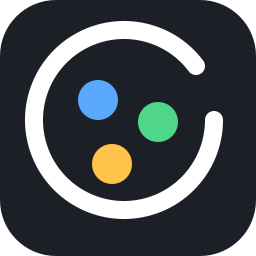
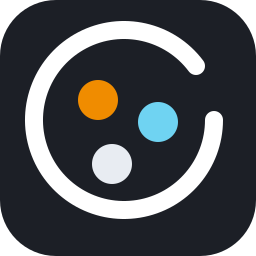
feat(render): エージェント種別のグリフとキー送信のプリセット別アイコンを追加
状態色を idle=黒 / working=オレンジ / done=水色 に変更した。指定の無かった
blocked は working のオレンジと紛れないよう赤、unknown は暗灰のままとした。

エージェントキーは種別名の字面をやめてグリフを描く。herdr が検出する種別は
19 種類あり全部に絵を用意しても見分けがつかないので、claude / codex /
gemini / cursor だけ形で表し、残りは頭 2 文字の字面にした。claude と cline の
ように頭 1 文字では被るため 2 文字にしている。

キー送信は承認 / 拒否 / はい / いいえ / 自由入力でアイコンを差し替える。
どのキーが何を送るのか、押す前に分かるようにするため。

Claude-Session: https://claude.ai/code/session_01EzXAshLPNT9u9e3xSfiBLn

Changed region(s): [[0.5312, 0.375, 0.7188, 0.5625], [0.3438, 0.5625, 0.5312, 0.7188], [0.2812, 0.3125, 0.4688, 0.4688]]

diff --git a/src/render/key-image.ts b/src/render/key-image.ts
@@ -1,7 +1,7 @@
 /**
  * エージェントキーの画像を組み立てる純関数。
  *
- * 状態を色で示し、中央にエージェント種別、右上にスロット番号を描く
+ * 状態を色で示し、中央にエージェント種別のグリフ、右上にスロット番号を描く
  * （spec/herdr-control.md 5.4）。キーのタイトル（ワークスペース名）は
  * Stream Deck 側が下端に重ねるため、下 1/4 は空けておく。
  */
@@ -10,13 +10,13 @@ import {
   EMPTY_SLOT_COLOR,
   EMPTY_SLOT_FOREGROUND_COLOR,
   KEY_IMAGE_SIZE,
-  KEY_LABEL_MAX_LENGTH,
   OFFLINE_COLOR,
   OFFLINE_FOREGROUND_COLOR,
   STATUS_COLORS,
   STATUS_FOREGROUND_COLORS,
 } from "../constants.js";
 import type { AgentStatus } from "../herdr/types.js";
+import { agentGlyph, GLYPH_BOX } from "./agent-glyph.js";
 
 export type AgentKeyView =
   /** herdr に接続できていない。 */
@@ -25,6 +25,10 @@ export type AgentKeyView =
   | { kind: "empty"; slot?: number }
   /** エージェントがいる。 */
   | { kind: "agent"; status: AgentStatus; agent: string | null; slot?: number };
+
+/** グリフを描く領域の一辺（px）。タイトルに重ならないよう上寄せに置く。 */
+const GLYPH_SIZE = 62;
+const GLYPH_CENTER_Y = 58;
 
 /** キー画像を `data:` URI として返す。Stream Deck の `setImage()` にそのまま渡せる。 */
 export function renderAgentKey(view: AgentKeyView): string {
@@ -39,13 +43,13 @@ function buildSvg(view: AgentKeyView): string {
   ];
 
   if (view.kind === "offline") {
-    parts.push(centerText("×", OFFLINE_FOREGROUND_COLOR, 56));
+    parts.push(symbol("×", OFFLINE_FOREGROUND_COLOR, 56));
   } else if (view.kind === "empty") {
-    parts.push(centerText("—", EMPTY_SLOT_FOREGROUND_COLOR, 40));
+    parts.push(symbol("—", EMPTY_SLOT_FOREGROUND_COLOR, 40));
     parts.push(slotBadge(view.slot, EMPTY_SLOT_FOREGROUND_COLOR));
   } else {
     const foreground = STATUS_FOREGROUND_COLORS[view.status];
-    parts.push(centerText(agentLabel(view.agent), foreground, 24));
+    parts.push(glyph(view.agent, foreground));
     parts.push(slotBadge(view.slot, foreground));
   }
 
@@ -72,9 +76,17 @@ function background(view: AgentKeyView): string {
   return `${rect}<rect x="6" y="6" width="${size - 12}" height="${size - 12}" rx="14" fill="none" stroke="${stroke}" stroke-width="3" stroke-dasharray="10 8"/>`;
 }
 
-/** 中央よりやや上に描く。下端は Stream Deck のタイトルに譲る。 */
-function centerText(text: string, fill: string, fontSize: number): string {
-  return `<text x="${KEY_IMAGE_SIZE / 2}" y="58" text-anchor="middle" dominant-baseline="middle" font-family="Helvetica, Arial, sans-serif" font-size="${fontSize}" font-weight="600" fill="${fill}">${escapeXml(text)}</text>`;
+/** エージェント種別のグリフを、下端のタイトルに重ならない位置へ拡大して置く。 */
+function glyph(agent: string | null, color: string): string {
+  const scale = GLYPH_SIZE / GLYPH_BOX;
+  const offsetX = KEY_IMAGE_SIZE / 2 - GLYPH_SIZE / 2;
+  const offsetY = GLYPH_CENTER_Y - GLYPH_SIZE / 2;
+  return `<g transform="translate(${offsetX} ${offsetY}) scale(${scale})">${agentGlyph(agent, color)}</g>`;
+}
+
+/** 空スロット・オフラインを示す記号。 */
+function symbol(text: string, fill: string, fontSize: number): string {
+  return `<text x="${KEY_IMAGE_SIZE / 2}" y="${GLYPH_CENTER_Y}" text-anchor="middle" dominant-baseline="middle" font-family="Helvetica, Arial, sans-serif" font-size="${fontSize}" font-weight="600" fill="${fill}">${text}</text>`;
 }
 
 /** 右上のスロット番号。`index` 指定でないキーには出さない。 */
@@ -82,28 +94,7 @@ function slotBadge(slot: number | undefined, fill: string): string {
   if (slot === undefined) {
     return "";
   }
-  return `<text x="${KEY_IMAGE_SIZE - 14}" y="26" text-anchor="end" font-family="Helvetica, Arial, sans-serif" font-size="20" font-weight="600" fill="${fill}" fill-opacity="0.65">${escapeXml(String(slot))}</text>`;
-}
-
-/** エージェント種別を大文字で描く。未検出なら疑問符。 */
-function agentLabel(agent: string | null): string {
-  if (agent === null || agent === "") {
-    return "?";
-  }
-  return truncate(agent.toUpperCase(), KEY_LABEL_MAX_LENGTH);
-}
-
-function truncate(text: string, maxLength: number): string {
-  return [...text].length <= maxLength ? text : `${[...text].slice(0, maxLength - 1).join("")}…`;
-}
-
-function escapeXml(text: string): string {
-  return text
-    .replaceAll("&", "&amp;")
-    .replaceAll("<", "&lt;")
-    .replaceAll(">", "&gt;")
-    .replaceAll('"', "&quot;")
-    .replaceAll("'", "&apos;");
+  return `<text x="${KEY_IMAGE_SIZE - 14}" y="26" text-anchor="end" font-family="Helvetica, Arial, sans-serif" font-size="20" font-weight="600" fill="${fill}" fill-opacity="0.65">${slot}</text>`;
 }
 
 function toDataUri(svg: string): string {

diff --git a/src/render/agent-glyph.ts b/src/render/agent-glyph.ts
@@ -1,0 +1,95 @@
+/**
+ * エージェント種別ごとのグリフ。
+ *
+ * すべて 24×24 の座標系で描き、呼び出し側が拡大してキー画像に埋め込む。
+ * herdr が検出するエージェントは 19 種類あり全部に絵を用意しても見分けが
+ * つかないので、よく使うものだけ形で表し、残りは頭 2 文字の字面で示す。
+ */
+
+/** グリフを描く座標系の一辺。 */
+export const GLYPH_BOX = 24;
+
+const CENTER = GLYPH_BOX / 2;
+
+/** claude: Claude Code が端末に出す ✳ に合わせた 8 方向の光条。 */
+function claudeGlyph(color: string): string {
+  const spokes = [0, 45, 90, 135, 180, 225, 270, 315]
+    .map((degrees) => {
+      const radians = (degrees * Math.PI) / 180;
+      const [dx, dy] = [Math.cos(radians), Math.sin(radians)];
+      const inner = point(dx, dy, 3.2);
+      const outer = point(dx, dy, 10.4);
+      return `M${inner} L${outer}`;
+    })
+    .join(" ");
+  return `<path d="${spokes}" fill="none" stroke="${color}" stroke-width="2.4" stroke-linecap="round"/>`;
+}
+
+/** codex: 中心と 6 方向の粒からなる花形。 */
+function codexGlyph(color: string): string {
+  const petals = [0, 60, 120, 180, 240, 300]
+    .map((degrees) => {
+      const radians = (degrees * Math.PI) / 180;
+      const [cx, cy] = coordinates(Math.cos(radians), Math.sin(radians), 6.9);
+      return `<circle cx="${cx}" cy="${cy}" r="2.7" fill="${color}"/>`;
+    })
+    .join("");
+  return `${petals}<circle cx="${CENTER}" cy="${CENTER}" r="2.9" fill="${color}"/>`;
+}
+
+/** gemini: 4 方向に尖った星。 */
+function geminiGlyph(color: string): string {
+  return `<path d="M12 1.6c1.1 5.6 3.7 8.2 9.3 9.3-5.6 1.1-8.2 3.7-9.3 9.3-1.1-5.6-3.7-8.2-9.3-9.3 5.6-1.1 8.2-3.7 9.3-9.3Z" fill="${color}"/>`;
+}
+
+/** cursor: 矢印カーソル。 */
+function cursorGlyph(color: string): string {
+  return `<path d="M4.74 1.22 19.92 12.66l-6.71.66 3.52 7.26-2.97 1.43-3.52-7.37-4.84 3.96Z" fill="${color}"/>`;
+}
+
+const GLYPHS: Record<string, (color: string) => string> = {
+  claude: claudeGlyph,
+  codex: codexGlyph,
+  gemini: geminiGlyph,
+  cursor: cursorGlyph,
+};
+
+/**
+ * エージェント種別のグリフを返す。形を用意していない種別は頭 2 文字を大文字で描く
+ * （`cline` と `claude` のように頭 1 文字では被るため 2 文字にする）。
+ * 種別が検出できていない場合は疑問符。
+ */
+export function agentGlyph(agent: string | null, color: string): string {
+  const key = (agent ?? "").toLowerCase();
+  const glyph = GLYPHS[key];
+  if (glyph !== undefined) {
+    return glyph(color);
+  }
+  return lettermark(agent === null || agent === "" ? "?" : agent.slice(0, 2), color);
+}
+
+function lettermark(text: string, color: string): string {
+  return `<text x="${CENTER}" y="${CENTER}" text-anchor="middle" dominant-baseline="central" font-family="Helvetica, Arial, sans-serif" font-size="13" font-weight="700" fill="${color}">${escapeXml(text.toUpperCase())}</text>`;
+}
+
+function coordinates(dx: number, dy: number, radius: number): [string, string] {
+  return [round(CENTER + dx * radius), round(CENTER + dy * radius)];
+}
+
+function point(dx: number, dy: number, radius: number): string {
+  const [x, y] = coordinates(dx, dy, radius);
+  return `${x} ${y}`;
+}
+
+function round(value: number): string {
+  return (Math.round(value * 100) / 100).toString();
+}
+
+function escapeXml(text: string): string {
+  return text
+    .replaceAll("&", "&amp;")
+    .replaceAll("<", "&lt;")
+    .replaceAll(">", "&gt;")
+    .replaceAll('"', "&quot;")
+    .replaceAll("'", "&apos;");
+}

diff --git a/src/render/key-image.test.ts b/src/render/key-image.test.ts
@@ -4,6 +4,7 @@ import {
   EMPTY_SLOT_COLOR,
   OFFLINE_FOREGROUND_COLOR,
   STATUS_COLORS,
+  STATUS_FOREGROUND_COLORS,
 } from "../constants.js";
 import { renderAgentKey, type AgentKeyView } from "./key-image.js";
 
@@ -32,8 +33,12 @@ describe("renderAgentKey", () => {
     }
   });
 
-  it("エージェント種別を大文字で描く", () => {
-    expect(render({ kind: "agent", status: "idle", agent: "claude" })).toContain(">CLAUDE<");
+  it("エージェント種別のグリフを埋め込む", () => {
+    const claude = render({ kind: "agent", status: "idle", agent: "claude" });
+    const codex = render({ kind: "agent", status: "idle", agent: "codex" });
+
+    expect(claude).toContain("<g transform=");
+    expect(claude).not.toEqual(codex);
   });
 
   it("種別が検出できていなければ疑問符を描く", () => {
@@ -62,16 +67,11 @@ describe("renderAgentKey", () => {
     expect(offline).not.toEqual(empty);
   });
 
-  it("XML の特殊文字をエスケープする", () => {
-    const svg = render({ kind: "agent", status: "idle", agent: "a&b<c>\"d'" });
+  it("状態ごとに前景色を変える", () => {
+    const idle = render({ kind: "agent", status: "idle", agent: "claude" });
+    const working = render({ kind: "agent", status: "working", agent: "claude" });
 
-    expect(svg).toContain("A&amp;B&lt;C&gt;&quot;D&apos;");
-    expect(svg).not.toContain("<c>");
-  });
-
-  it("長すぎる種別名は省略記号付きで切り詰める", () => {
-    const svg = render({ kind: "agent", status: "idle", agent: "abcdefghijklmn" });
-
-    expect(svg).toContain(">ABCDEFGHI…<");
+    expect(idle).toContain(STATUS_FOREGROUND_COLORS.idle);
+    expect(working).toContain(STATUS_FOREGROUND_COLORS.working);
   });
 });

diff --git a/src/render/agent-glyph.test.ts b/src/render/agent-glyph.test.ts
@@ -1,0 +1,39 @@
+import { describe, expect, it } from "vitest";
+
+import { agentGlyph } from "./agent-glyph.js";
+
+describe("agentGlyph", () => {
+  it("形を用意した種別は種別ごとに違うグリフを返す", () => {
+    const glyphs = ["claude", "codex", "gemini", "cursor"].map((agent) =>
+      agentGlyph(agent, "#fff"),
+    );
+
+    expect(new Set(glyphs).size).toBe(glyphs.length);
+  });
+
+  it("大文字小文字を区別せずに形を引く", () => {
+    expect(agentGlyph("CLAUDE", "#fff")).toBe(agentGlyph("claude", "#fff"));
+  });
+
+  it("形を用意していない種別は頭 2 文字を大文字で描く", () => {
+    expect(agentGlyph("opencode", "#fff")).toContain(">OP<");
+    expect(agentGlyph("cline", "#fff")).toContain(">CL<");
+  });
+
+  it("種別が検出できていなければ疑問符を描く", () => {
+    expect(agentGlyph(null, "#fff")).toContain(">?<");
+    expect(agentGlyph("", "#fff")).toContain(">?<");
+  });
+
+  it("渡した色を使う", () => {
+    expect(agentGlyph("claude", "#123456")).toContain("#123456");
+    expect(agentGlyph("opencode", "#123456")).toContain("#123456");
+  });
+
+  it("種別名の XML 特殊文字をエスケープする", () => {
+    const glyph = agentGlyph("<&", "#fff");
+
+    expect(glyph).toContain("&lt;&amp;");
+    expect(glyph).not.toContain(">&<");
+  });
+});

diff --git a/src/constants.ts b/src/constants.ts
@@ -60,19 +60,19 @@ export const SUBSCRIPTION_TYPES: readonly string[] = [
 
 /** 状態ごとのキー背景色（spec/herdr-control.md 5.4「表示」）。 */
 export const STATUS_COLORS: Record<AgentStatus, string> = {
-  idle: "#e8ecf2",
-  working: "#2f7bd6",
-  blocked: "#d99024",
-  done: "#2f9e5f",
+  idle: "#0d0f13",
+  working: "#f08c00",
+  blocked: "#e03131",
+  done: "#6fd3f2",
   unknown: "#3a3f47",
 };
 
 /** 状態ごとの前景色（背景とのコントラストを確保する）。 */
 export const STATUS_FOREGROUND_COLORS: Record<AgentStatus, string> = {
-  idle: "#1c1f26",
-  working: "#ffffff",
-  blocked: "#1c1f26",
-  done: "#ffffff",
+  idle: "#e8ecf2",
+  working: "#1c1f26",
+  blocked: "#ffffff",
+  done: "#10222b",
   unknown: "#9aa1ad",
 };
 
@@ -86,9 +86,6 @@ export const OFFLINE_FOREGROUND_COLOR = "#b04a4a";
 
 /** キー画像の一辺（px）。Stream Deck のキーは正方形。 */
 export const KEY_IMAGE_SIZE = 144;
-
-/** キー画像に描くラベルの最大文字数。超えた分は省略記号にする。 */
-export const KEY_LABEL_MAX_LENGTH = 10;
 
 /** キーのタイトル（下端に重なる文字列）の最大文字数。 */
 export const KEY_TITLE_MAX_LENGTH = 12;

diff --git a/src/actions/target-action.ts b/src/actions/target-action.ts
@@ -37,12 +37,28 @@ export abstract class TargetAction<T extends TargetSettings> extends SingletonAc
     return settings.label ?? this.defaultLabel();
   }
 
+  /**
+   * 設定に応じて差し替えるキー画像（プラグインフォルダ内のパス）。
+   * `undefined` を返した場合は manifest の既定画像のまま。
+   */
+  protected image(_settings: T): string | undefined {
+    return undefined;
+  }
+
   override onWillAppear(ev: WillAppearEvent<T>): void {
-    void ev.action.setTitle(this.label(ev.payload.settings));
+    this.#apply(ev.action, ev.payload.settings);
   }
 
   override onDidReceiveSettings(ev: DidReceiveSettingsEvent<T>): void {
-    void ev.action.setTitle(this.label(ev.payload.settings));
+    this.#apply(ev.action, ev.payload.settings);
+  }
+
+  #apply(action: WillAppearEvent<T>["action"], settings: T): void {
+    void action.setTitle(this.label(settings));
+    const image = this.image(settings);
+    if (image !== undefined && action.isKey()) {
+      void action.setImage(image);
+    }
   }
 
   override async onKeyDown(ev: KeyDownEvent<T>): Promise<void> {

diff --git a/src/actions/send-keys.ts b/src/actions/send-keys.ts
@@ -18,6 +18,15 @@ const PRESET_LABELS: Record<KeyPreset, string> = {
   custom: "キー送信",
 };
 
+/** プリセットごとのキー画像。何を送るキーなのか一目で分かるようにする。 */
+const PRESET_IMAGES: Record<KeyPreset, string> = {
+  approve: "imgs/keys/send-approve",
+  reject: "imgs/keys/send-reject",
+  yes: "imgs/keys/send-yes",
+  no: "imgs/keys/send-no",
+  custom: "imgs/keys/send-custom",
+};
+
 @action({ UUID: ACTION_UUID_SEND_KEYS })
 export class SendKeys extends TargetAction<SendKeysSettings> {
   protected override defaultLabel(): string {
@@ -26,6 +35,10 @@ export class SendKeys extends TargetAction<SendKeysSettings> {
 
   protected override label(settings: SendKeysSettings): string {
     return settings.label ?? PRESET_LABELS[settings.preset ?? "approve"];
+  }
+
+  protected override image(settings: SendKeysSettings): string {
+    return PRESET_IMAGES[settings.preset ?? "approve"];
   }
 
   protected override async perform(target: string, settings: SendKeysSettings): Promise<void> {
